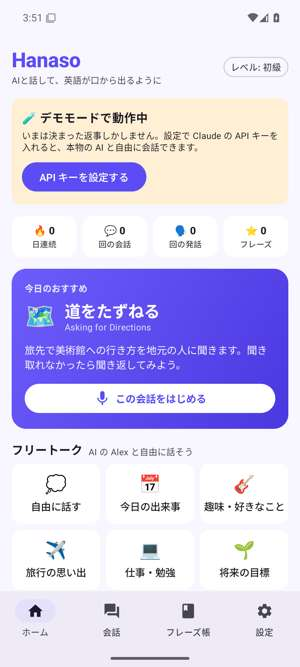
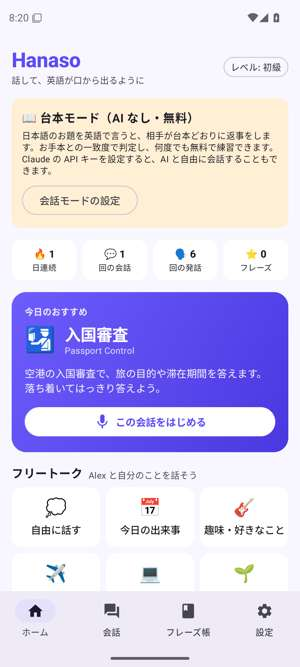
Show script-mode screens in the Hanaso README
Claude-Session: https://claude.ai/code/session_01Y7QsvmFuPcyQyY8PXMWoQQ

diff --git a/hanaso_android/README.md b/hanaso_android/README.md
@@ -10,11 +10,19 @@
 | 📖 **台本モード**（既定） | 日本語のお題（「ラテの M サイズを注文しよう」など）を英語で言うと、相手が台本どおりに返事をします。お手本との一致度とキーワードで判定し、違ったら聞き返されます。AI を使わないのでオフラインでも動きます。 | **無料** |
 | 🤖 **AI 会話モード** | Claude と自由に会話し、発話ごとに添削を受けられます。Claude API をスマホから直接呼び出します（サーバー不要）。 | API キーが必要（従量課金） |
 
-| ホーム | 会話と添削 | ヒント | 振り返り | ハンズフリー |
-|:---:|:---:|:---:|:---:|:---:|
-| ![ホーム](docs/home.jpg) | ![会話と添削](docs/talk.jpg) | ![ヒント](docs/hint.jpg) | ![振り返り](docs/summary.jpg) | ![ハンズフリー](docs/handsfree.jpg) |
+**台本モード**
 
-（Android 15 エミュレータでの画面。会話と添削・ヒント・ハンズフリーは AI 会話モード（テスト用の決まった返事）のもの）
+| ホーム | お題と判定 | 聞き返し・お手本 | 振り返り |
+|:---:|:---:|:---:|:---:|
+| ![ホーム](docs/home.jpg) | ![お題と判定](docs/script_talk.jpg) | ![聞き返し](docs/script_retry.jpg) | ![振り返り](docs/script_summary.jpg) |
+
+**AI 会話モード**（画面はテスト用の決まった返事のもの）
+
+| 会話と添削 | ヒント | 振り返り | ハンズフリー |
+|:---:|:---:|:---:|:---:|
+| ![会話と添削](docs/talk.jpg) | ![ヒント](docs/hint.jpg) | ![振り返り](docs/summary.jpg) | ![ハンズフリー](docs/handsfree.jpg) |
+
+（Android 15 エミュレータでの画面）
 
 ## できること
 
@@ -24,7 +32,7 @@
 | 📖 **台本モード** | 全 18 本の台本（ロールプレイ 12＋フリートーク 6、各 5 問）。お手本の単語のうち言えたものを緑、言えなかったものを赤で表示し、「Great!／OK! 通じた／もう一度」で判定します。言い直しは 2 回まで（その後はお手本を見せて次へ）。自分のことを答える「自由回答」のお題もあります。 |
 | 🎭 **ロールプレイ 12 種類** | カフェ・道案内・レストラン・入国審査・ホテル・返品・パーティー・週末の予定・病院・同僚との雑談・会議・英語面接（初級〜上級）。 |
 | 🎯 **ミッション** | 「サイズを指定して注文する」などの目標が、会話の中で達成されると自動でチェックされます。 |
-| 💬 **フリートーク** | AI の Alex と「今日の出来事」「趣味」「旅行」などのテーマで自由に話せます。 |
+| 💬 **フリートーク** | Alex と「今日の出来事」「趣味」「旅行」などのテーマで話せます（台本モードでは Alex の質問に自分のことを答え、AI 会話では自由に話せます）。 |
 | ✏ **発話ごとの添削**（AI） | 話すたびに「Great!／もっと自然に／修正あり」を判定し、正しい文・ネイティブらしい言い方・日本語の解説を表示します。 |
 | 💡 **ヒント** | 詰まったら、次に言えることを提案します（台本モードはお手本と言い換え）。AI 会話では**日本語で言いたいこと**を入れると英語の言い方を提案し、見ながら自分の声で言う練習ができます。 |
 | 🔁 **言ってみる（発音チェック）** | お手本の文を言うと、言えた単語と言えなかった単語を色分けして採点します。 |
